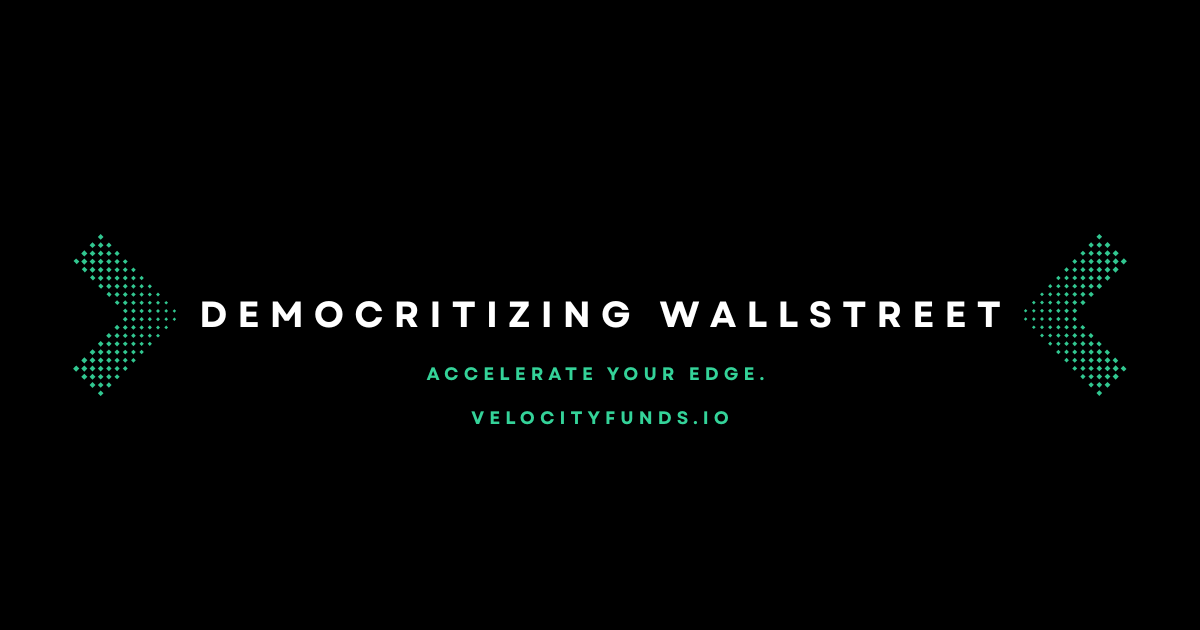
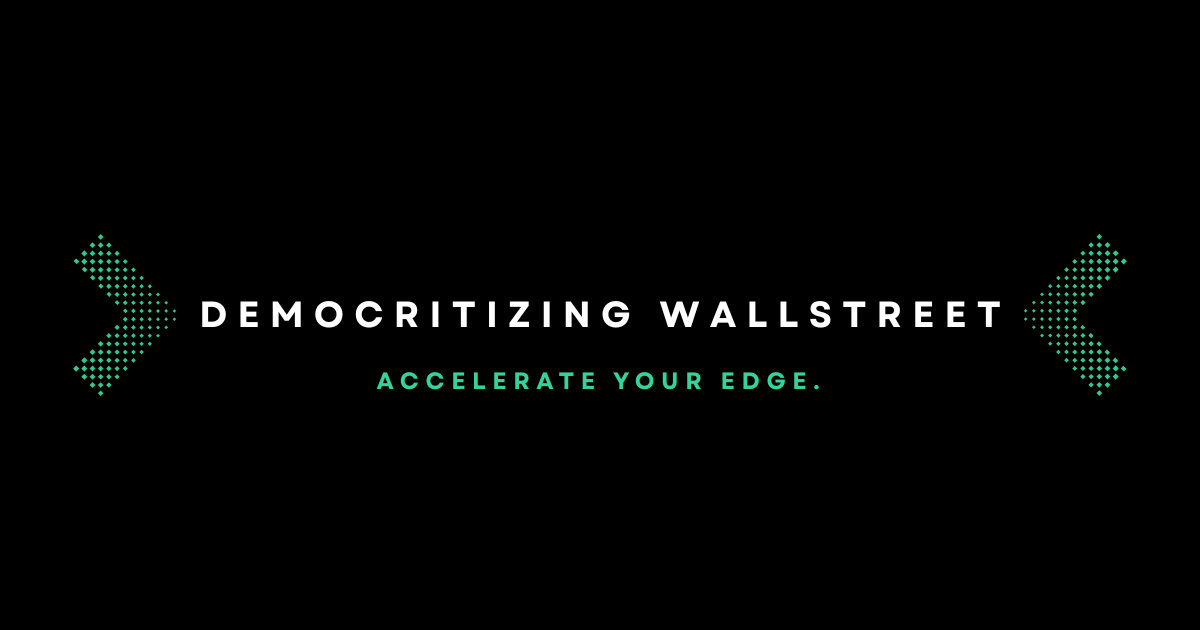
Update OG preview image

Changed region(s): [[0.3083, 0.573, 0.6783, 0.6937]]

diff --git a/index.html b/index.html
@@ -11,7 +11,7 @@
   <meta property="og:description" content="Join the Velocity Funds launch waitlist and get pre-launch updates on institutional-grade trading access.">
   <meta property="og:type" content="website">
   <meta property="og:site_name" content="Velocity Funds">
-  <meta property="og:image" content="/assets/images/og-velocity-waitlist.png?v=3">
+  <meta property="og:image" content="/assets/images/og-velocity-waitlist.png?v=4">
   <meta property="og:image:type" content="image/png">
   <meta property="og:image:width" content="1200">
   <meta property="og:image:height" content="630">
@@ -19,7 +19,7 @@
   <meta name="twitter:card" content="summary_large_image">
   <meta name="twitter:title" content="Velocity Funds Waitlist">
   <meta name="twitter:description" content="Join the Velocity Funds launch waitlist and get pre-launch updates on institutional-grade trading access.">
-  <meta name="twitter:image" content="/assets/images/og-velocity-waitlist.png?v=3">
+  <meta name="twitter:image" content="/assets/images/og-velocity-waitlist.png?v=4">
   <meta name="twitter:image:alt" content="Velocity Funds Waitlist">
   <link rel="preconnect" href="https://fonts.googleapis.com">
   <link rel="preconnect" href="https://fonts.gstatic.com" crossorigin>
